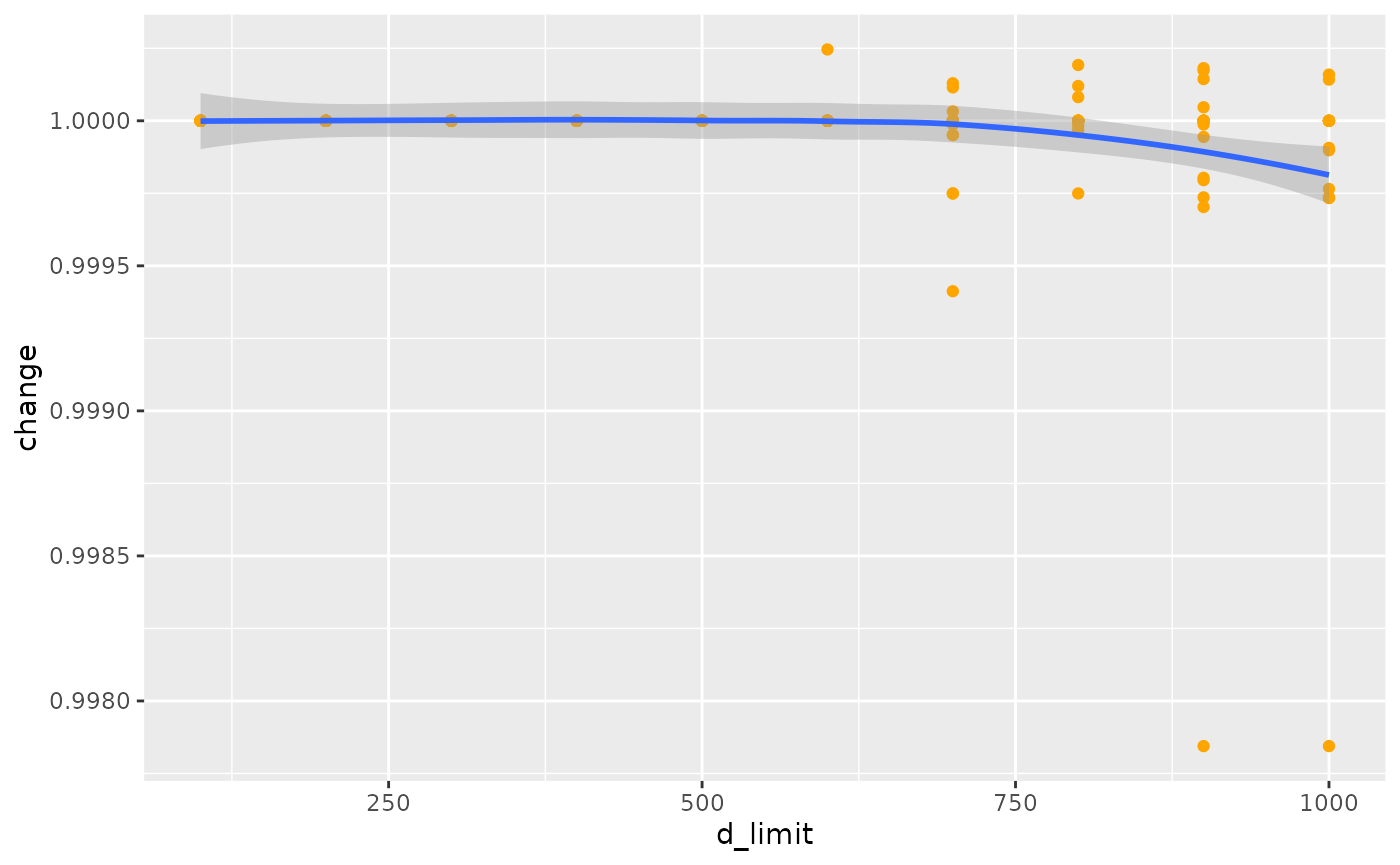
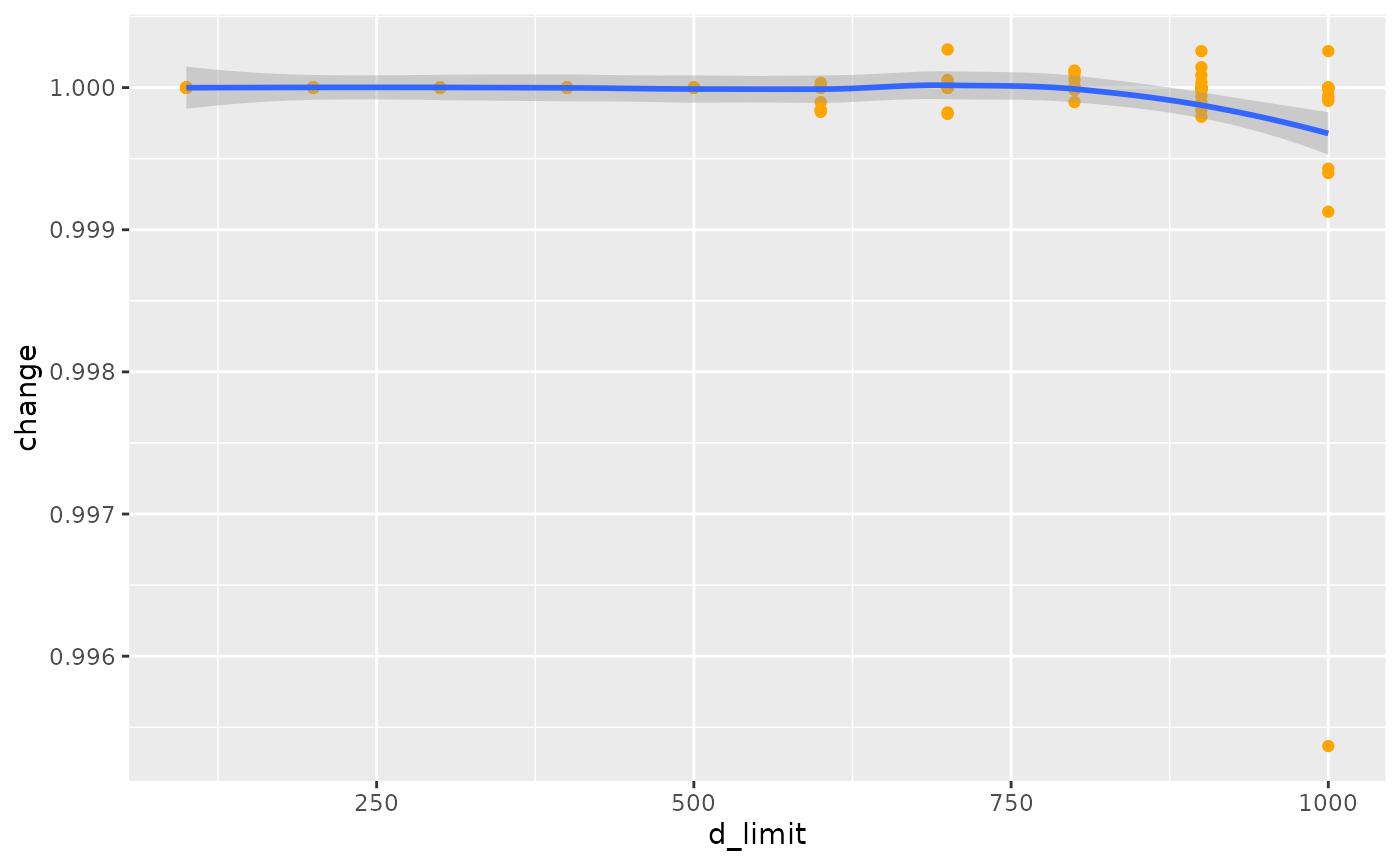
Deploying to gh-pages from @ UrbanAnalyst/gtfsrouter@3b9be44287df369f040180569be335117c8ad699 🚀

diff --git a/docs/articles/gtfsrouter.html b/docs/articles/gtfsrouter.html
@@ -33,7 +33,7 @@
       </button>
       <span class="navbar-brand">
         <a class="navbar-link" href="../index.html">gtfsrouter</a>
-        <span class="version label label-default" data-toggle="tooltip" data-placement="bottom" title="">0.0.5.161</span>
+        <span class="version label label-default" data-toggle="tooltip" data-placement="bottom" title="">0.0.5.162</span>
       </span>
     </div>
 
@@ -126,7 +126,7 @@ to a locally-stored <code>.zip</code> archive in the
 data can be exported and re-imported with:</p>
 <div class="sourceCode" id="cb1"><pre class="downlit sourceCode r">
 <code class="sourceCode R"><span><span class="fu"><a href="../reference/berlin_gtfs_to_zip.html">berlin_gtfs_to_zip</a></span><span class="op">(</span><span class="op">)</span></span></code></pre></div>
-<pre><code><span><span class="co">## [1] "/tmp/RtmphvYXK6/vbb.zip"</span></span></code></pre>
+<pre><code><span><span class="co">## [1] "/tmp/Rtmps1dFHk/vbb.zip"</span></span></code></pre>
 <div class="sourceCode" id="cb3"><pre class="downlit sourceCode r">
 <code class="sourceCode R"><span><span class="va">f</span> <span class="op">&lt;-</span> <span class="fu"><a href="https://rdrr.io/r/base/file.path.html" class="external-link">file.path</a></span> <span class="op">(</span><span class="fu"><a href="https://rdrr.io/r/base/tempfile.html" class="external-link">tempdir</a></span> <span class="op">(</span><span class="op">)</span>, <span class="st">"vbb.zip"</span><span class="op">)</span></span>
 <span><span class="fu"><a href="https://rdrr.io/r/base/files.html" class="external-link">file.exists</a></span> <span class="op">(</span><span class="va">f</span><span class="op">)</span></span></code></pre></div>
@@ -347,7 +347,7 @@ data:</p>
 <span>                day <span class="op">=</span> <span class="st">"Sunday"</span><span class="op">)</span></span>
 <span>    <span class="op">)</span></span></code></pre></div>
 <pre><code><span><span class="co">##    user  system elapsed </span></span>
-<span><span class="co">##   0.070   0.003   0.074</span></span></code></pre>
+<span><span class="co">##   0.050   0.001   0.051</span></span></code></pre>
 <div class="sourceCode" id="cb14"><pre class="downlit sourceCode r">
 <code class="sourceCode R"><span><span class="fu"><a href="https://rdrr.io/r/base/names.html" class="external-link">names</a></span> <span class="op">(</span><span class="va">gtfs</span><span class="op">)</span></span></code></pre></div>
 <pre><code><span><span class="co">## [1] "calendar"   "routes"     "trips"      "stop_times" "stops"     </span></span>
@@ -365,7 +365,7 @@ data:</p>
 <span>                         to <span class="op">=</span> <span class="va">to</span>,</span>
 <span>                         start_time <span class="op">=</span> <span class="st">"12:00:00"</span><span class="op">)</span><span class="op">)</span></span></code></pre></div>
 <pre><code><span><span class="co">##    user  system elapsed </span></span>
-<span><span class="co">##   0.062   0.000   0.062</span></span></code></pre>
+<span><span class="co">##   0.039   0.000   0.039</span></span></code></pre>
 <p>Note that the <code>day</code> parameter is used to extract the
 timetable, after which it is no longer required in the actual call to
 <code><a href="../reference/gtfs_route.html">gtfs_route()</a></code>.</p>

diff --git a/docs/index.html b/docs/index.html
@@ -35,7 +35,7 @@
       </button>
       <span class="navbar-brand">
         <a class="navbar-link" href="index.html">gtfsrouter</a>
-        <span class="version label label-default" data-toggle="tooltip" data-placement="bottom" title="">0.0.5.161</span>
+        <span class="version label label-default" data-toggle="tooltip" data-placement="bottom" title="">0.0.5.162</span>
       </span>
     </div>
 
@@ -88,7 +88,7 @@
 <span><span class="fu">remotes</span><span class="fu">::</span><span class="fu">install_git</span> <span class="op">(</span><span class="st">"https://git.sr.ht/~mpadge/gtfsrouter"</span><span class="op">)</span></span>
 <span><span class="fu">remotes</span><span class="fu">::</span><span class="fu">install_git</span> <span class="op">(</span><span class="st">"https://codeberg.org/UrbanAnalyst/gtfsrouter"</span><span class="op">)</span></span>
 <span><span class="fu">remotes</span><span class="fu">::</span><span class="fu">install_bitbucket</span> <span class="op">(</span><span class="st">"atfutures/gtfsrouter"</span><span class="op">)</span></span>
-<span><span class="fu">remotes</span><span class="fu">::</span><span class="fu">install_gitlab</span> <span class="op">(</span><span class="st">"atfutures1/gtfsrouter"</span><span class="op">)</span></span>
+<span><span class="fu">remotes</span><span class="fu">::</span><span class="fu">install_gitlab</span> <span class="op">(</span><span class="st">"UrbanAnalyst/gtfsrouter"</span><span class="op">)</span></span>
 <span><span class="fu">remotes</span><span class="fu">::</span><span class="fu">install_github</span> <span class="op">(</span><span class="st">"UrbanAnalyst/gtfsrouter"</span><span class="op">)</span></span></code></pre></div>
 <p>To load the package and check the version:</p>
 <div class="sourceCode" id="cb3"><pre class="downlit sourceCode r">
@@ -103,7 +103,7 @@
 <div class="sourceCode" id="cb5"><pre class="downlit sourceCode r">
 <code class="sourceCode R"><span><span class="va">filename</span> <span class="op">&lt;-</span> <span class="fu"><a href="reference/berlin_gtfs_to_zip.html">berlin_gtfs_to_zip</a></span> <span class="op">(</span><span class="op">)</span></span>
 <span><span class="fu"><a href="https://rdrr.io/r/base/print.html" class="external-link">print</a></span> <span class="op">(</span><span class="va">filename</span><span class="op">)</span></span></code></pre></div>
-<div class="sourceCode" id="cb6"><pre class="sourceCode R"><code class="sourceCode r"><span id="cb6-1"><a href="#cb6-1" aria-hidden="true" tabindex="-1"></a><span class="do">## [1] "/tmp/RtmpvmGw2S/vbb.zip"</span></span></code></pre></div>
+<div class="sourceCode" id="cb6"><pre class="sourceCode R"><code class="sourceCode r"><span id="cb6-1"><a href="#cb6-1" aria-hidden="true" tabindex="-1"></a><span class="do">## [1] "/tmp/RtmpRpDF3i/vbb.zip"</span></span></code></pre></div>
 <p>For normal package use, <code>filename</code> will specify the name of a local GTFS <code>.zip</code> file.</p>
 <div class="section level3">
 <h3 id="gtfs_route">gtfs_route<a class="anchor" aria-label="anchor" href="#gtfs_route"></a>

diff --git a/docs/articles/traveltimes.html b/docs/articles/traveltimes.html
@@ -33,7 +33,7 @@
       </button>
       <span class="navbar-brand">
         <a class="navbar-link" href="../index.html">gtfsrouter</a>
-        <span class="version label label-default" data-toggle="tooltip" data-placement="bottom" title="">0.0.5.161</span>
+        <span class="version label label-default" data-toggle="tooltip" data-placement="bottom" title="">0.0.5.162</span>
       </span>
     </div>
 
@@ -101,7 +101,7 @@ function</a>, is necessary prior to calculating travel times.</p>
 <div class="sourceCode" id="cb1"><pre class="downlit sourceCode r">
 <code class="sourceCode R"><span><span class="kw"><a href="https://rdrr.io/r/base/library.html" class="external-link">library</a></span> <span class="op">(</span><span class="va"><a href="https://github.com/UrbanAnalyst/gtfsrouter" class="external-link">gtfsrouter</a></span><span class="op">)</span></span>
 <span><span class="fu"><a href="../reference/berlin_gtfs_to_zip.html">berlin_gtfs_to_zip</a></span> <span class="op">(</span><span class="op">)</span></span></code></pre></div>
-<pre><code><span><span class="co">## [1] "/tmp/RtmpXkisIE/vbb.zip"</span></span></code></pre>
+<pre><code><span><span class="co">## [1] "/tmp/RtmpyHRB0K/vbb.zip"</span></span></code></pre>
 <div class="sourceCode" id="cb3"><pre class="downlit sourceCode r">
 <code class="sourceCode R"><span><span class="va">f</span> <span class="op">&lt;-</span> <span class="fu"><a href="https://rdrr.io/r/base/file.path.html" class="external-link">file.path</a></span> <span class="op">(</span><span class="fu"><a href="https://rdrr.io/r/base/tempfile.html" class="external-link">tempdir</a></span> <span class="op">(</span><span class="op">)</span>, <span class="st">"vbb.zip"</span><span class="op">)</span></span>
 <span><span class="va">gtfs</span> <span class="op">&lt;-</span> <span class="fu"><a href="../reference/extract_gtfs.html">extract_gtfs</a></span> <span class="op">(</span><span class="va">f</span>, quiet <span class="op">=</span> <span class="cn">TRUE</span><span class="op">)</span></span>

diff --git a/docs/reference/gtfs_transfer_table.html b/docs/reference/gtfs_transfer_table.html
@@ -17,7 +17,7 @@
       </button>
       <span class="navbar-brand">
         <a class="navbar-link" href="../index.html">gtfsrouter</a>
-        <span class="version label label-default" data-toggle="tooltip" data-placement="bottom" title="">0.0.5.161</span>
+        <span class="version label label-default" data-toggle="tooltip" data-placement="bottom" title="">0.0.5.162</span>
       </span>
     </div>
 
@@ -113,7 +113,7 @@ provided, this parameter is automatically set to <code>TRUE</code>.</p></dd>
     <div id="ref-examples">
     <h2>Examples</h2>
     <div class="sourceCode"><pre class="sourceCode r"><code><span class="r-in"><span><span class="fu"><a href="berlin_gtfs_to_zip.html">berlin_gtfs_to_zip</a></span> <span class="op">(</span><span class="op">)</span></span></span>
-<span class="r-out co"><span class="r-pr">#&gt;</span> [1] "/tmp/RtmpYkbVmg/vbb.zip"</span>
+<span class="r-out co"><span class="r-pr">#&gt;</span> [1] "/tmp/RtmpIDo7VW/vbb.zip"</span>
 <span class="r-in"><span><span class="va">f</span> <span class="op">&lt;-</span> <span class="fu"><a href="https://rdrr.io/r/base/file.path.html" class="external-link">file.path</a></span> <span class="op">(</span><span class="fu"><a href="https://rdrr.io/r/base/tempfile.html" class="external-link">tempdir</a></span> <span class="op">(</span><span class="op">)</span>, <span class="st">"vbb.zip"</span><span class="op">)</span></span></span>
 <span class="r-in"><span><span class="va">g</span> <span class="op">&lt;-</span> <span class="fu"><a href="extract_gtfs.html">extract_gtfs</a></span> <span class="op">(</span><span class="va">f</span>, quiet <span class="op">=</span> <span class="cn">TRUE</span><span class="op">)</span></span></span>
 <span class="r-in"><span><span class="va">g</span> <span class="op">&lt;-</span> <span class="fu">gtfs_transfer_table</span> <span class="op">(</span><span class="va">g</span>, d_limit <span class="op">=</span> <span class="fl">200</span><span class="op">)</span></span></span>

diff --git a/docs/reference/gtfs_route.html b/docs/reference/gtfs_route.html
@@ -18,7 +18,7 @@ a specified time."><!-- mathjax --><script src="https://cdnjs.cloudflare.com/aja
       </button>
       <span class="navbar-brand">
         <a class="navbar-link" href="../index.html">gtfsrouter</a>
-        <span class="version label label-default" data-toggle="tooltip" data-placement="bottom" title="">0.0.5.161</span>
+        <span class="version label label-default" data-toggle="tooltip" data-placement="bottom" title="">0.0.5.162</span>
       </span>
     </div>
 
@@ -182,7 +182,7 @@ can be calculated by setting <code>earliest_arrival = FALSE</code>.</p>
     <div id="ref-examples">
     <h2>Examples</h2>
     <div class="sourceCode"><pre class="sourceCode r"><code><span class="r-in"><span><span class="fu"><a href="berlin_gtfs_to_zip.html">berlin_gtfs_to_zip</a></span> <span class="op">(</span><span class="op">)</span> <span class="co"># Write sample feed from Berlin, Germany to tempdir</span></span></span>
-<span class="r-out co"><span class="r-pr">#&gt;</span> [1] "/tmp/RtmpYkbVmg/vbb.zip"</span>
+<span class="r-out co"><span class="r-pr">#&gt;</span> [1] "/tmp/RtmpIDo7VW/vbb.zip"</span>
 <span class="r-in"><span><span class="va">f</span> <span class="op">&lt;-</span> <span class="fu"><a href="https://rdrr.io/r/base/file.path.html" class="external-link">file.path</a></span> <span class="op">(</span><span class="fu"><a href="https://rdrr.io/r/base/tempfile.html" class="external-link">tempdir</a></span> <span class="op">(</span><span class="op">)</span>, <span class="st">"vbb.zip"</span><span class="op">)</span> <span class="co"># name of feed</span></span></span>
 <span class="r-in"><span><span class="va">gtfs</span> <span class="op">&lt;-</span> <span class="fu"><a href="extract_gtfs.html">extract_gtfs</a></span> <span class="op">(</span><span class="va">f</span><span class="op">)</span></span></span>
 <span class="r-msg co"><span class="r-pr">#&gt;</span> ▶<span style="color: #00BB00;"> Unzipping GTFS archive</span></span>

diff --git a/docs/reference/berlin_gtfs.html b/docs/reference/berlin_gtfs.html
@@ -23,7 +23,7 @@ characters.'><!-- mathjax --><script src="https://cdnjs.cloudflare.com/ajax/libs
       </button>
       <span class="navbar-brand">
         <a class="navbar-link" href="../index.html">gtfsrouter</a>
-        <span class="version label label-default" data-toggle="tooltip" data-placement="bottom" title="">0.0.5.161</span>
+        <span class="version label label-default" data-toggle="tooltip" data-placement="bottom" title="">0.0.5.162</span>
       </span>
     </div>
 
@@ -96,7 +96,7 @@ for which no route is possible return <code>NULL</code>.</p>
     <div id="ref-examples">
     <h2>Examples</h2>
     <div class="sourceCode"><pre class="sourceCode r"><code><span class="r-in"><span><span class="fu"><a href="berlin_gtfs_to_zip.html">berlin_gtfs_to_zip</a></span> <span class="op">(</span><span class="op">)</span> <span class="co"># Write sample feed from Berlin, Germany to tempdir</span></span></span>
-<span class="r-out co"><span class="r-pr">#&gt;</span> [1] "/tmp/RtmpYkbVmg/vbb.zip"</span>
+<span class="r-out co"><span class="r-pr">#&gt;</span> [1] "/tmp/RtmpIDo7VW/vbb.zip"</span>
 <span class="r-in"><span><span class="va">f</span> <span class="op">&lt;-</span> <span class="fu"><a href="https://rdrr.io/r/base/file.path.html" class="external-link">file.path</a></span> <span class="op">(</span><span class="fu"><a href="https://rdrr.io/r/base/tempfile.html" class="external-link">tempdir</a></span> <span class="op">(</span><span class="op">)</span>, <span class="st">"vbb.zip"</span><span class="op">)</span> <span class="co"># name of feed</span></span></span>
 <span class="r-in"><span><span class="va">gtfs</span> <span class="op">&lt;-</span> <span class="fu"><a href="extract_gtfs.html">extract_gtfs</a></span> <span class="op">(</span><span class="va">f</span><span class="op">)</span></span></span>
 <span class="r-msg co"><span class="r-pr">#&gt;</span> ▶<span style="color: #00BB00;"> Unzipping GTFS archive</span></span>

diff --git a/docs/reference/gtfs_timetable.html b/docs/reference/gtfs_timetable.html
@@ -17,7 +17,7 @@
       </button>
       <span class="navbar-brand">
         <a class="navbar-link" href="../index.html">gtfsrouter</a>
-        <span class="version label label-default" data-toggle="tooltip" data-placement="bottom" title="">0.0.5.161</span>
+        <span class="version label label-default" data-toggle="tooltip" data-placement="bottom" title="">0.0.5.162</span>
       </span>
     </div>
 
@@ -126,7 +126,7 @@ that case will generally take longer.</p>
     <div id="ref-examples">
     <h2>Examples</h2>
     <div class="sourceCode"><pre class="sourceCode r"><code><span class="r-in"><span><span class="fu"><a href="berlin_gtfs_to_zip.html">berlin_gtfs_to_zip</a></span> <span class="op">(</span><span class="op">)</span> <span class="co"># Write sample feed from Berlin, Germany to tempdir</span></span></span>
-<span class="r-out co"><span class="r-pr">#&gt;</span> [1] "/tmp/RtmpYkbVmg/vbb.zip"</span>
+<span class="r-out co"><span class="r-pr">#&gt;</span> [1] "/tmp/RtmpIDo7VW/vbb.zip"</span>
 <span class="r-in"><span><span class="va">f</span> <span class="op">&lt;-</span> <span class="fu"><a href="https://rdrr.io/r/base/file.path.html" class="external-link">file.path</a></span> <span class="op">(</span><span class="fu"><a href="https://rdrr.io/r/base/tempfile.html" class="external-link">tempdir</a></span> <span class="op">(</span><span class="op">)</span>, <span class="st">"vbb.zip"</span><span class="op">)</span> <span class="co"># name of feed</span></span></span>
 <span class="r-in"><span><span class="va">gtfs</span> <span class="op">&lt;-</span> <span class="fu"><a href="extract_gtfs.html">extract_gtfs</a></span> <span class="op">(</span><span class="va">f</span><span class="op">)</span></span></span>
 <span class="r-msg co"><span class="r-pr">#&gt;</span> ▶<span style="color: #00BB00;"> Unzipping GTFS archive</span></span>

diff --git a/docs/reference/gtfs_traveltimes.html b/docs/reference/gtfs_traveltimes.html
@@ -18,7 +18,7 @@ other reachable station in a system."><!-- mathjax --><script src="https://cdnjs
       </button>
       <span class="navbar-brand">
         <a class="navbar-link" href="../index.html">gtfsrouter</a>
-        <span class="version label label-default" data-toggle="tooltip" data-placement="bottom" title="">0.0.5.161</span>
+        <span class="version label label-default" data-toggle="tooltip" data-placement="bottom" title="">0.0.5.162</span>
       </span>
     </div>
 
@@ -155,7 +155,7 @@ to reach all or most stations desired for a particular query, rather than set
     <div id="ref-examples">
     <h2>Examples</h2>
     <div class="sourceCode"><pre class="sourceCode r"><code><span class="r-in"><span><span class="fu"><a href="berlin_gtfs_to_zip.html">berlin_gtfs_to_zip</a></span> <span class="op">(</span><span class="op">)</span></span></span>
-<span class="r-out co"><span class="r-pr">#&gt;</span> [1] "/tmp/RtmpYkbVmg/vbb.zip"</span>
+<span class="r-out co"><span class="r-pr">#&gt;</span> [1] "/tmp/RtmpIDo7VW/vbb.zip"</span>
 <span class="r-in"><span><span class="va">f</span> <span class="op">&lt;-</span> <span class="fu"><a href="https://rdrr.io/r/base/file.path.html" class="external-link">file.path</a></span> <span class="op">(</span><span class="fu"><a href="https://rdrr.io/r/base/tempfile.html" class="external-link">tempdir</a></span> <span class="op">(</span><span class="op">)</span>, <span class="st">"vbb.zip"</span><span class="op">)</span></span></span>
 <span class="r-in"><span><span class="va">g</span> <span class="op">&lt;-</span> <span class="fu"><a href="extract_gtfs.html">extract_gtfs</a></span> <span class="op">(</span><span class="va">f</span><span class="op">)</span></span></span>
 <span class="r-msg co"><span class="r-pr">#&gt;</span> ▶<span style="color: #00BB00;"> Unzipping GTFS archive</span></span>

diff --git a/docs/reference/extract_gtfs.html b/docs/reference/extract_gtfs.html
@@ -17,7 +17,7 @@
       </button>
       <span class="navbar-brand">
         <a class="navbar-link" href="../index.html">gtfsrouter</a>
-        <span class="version label label-default" data-toggle="tooltip" data-placement="bottom" title="">0.0.5.161</span>
+        <span class="version label label-default" data-toggle="tooltip" data-placement="bottom" title="">0.0.5.162</span>
       </span>
     </div>
 
@@ -102,7 +102,7 @@ function to the two time columns of the "stop_times" table.</p>
     <div id="ref-examples">
     <h2>Examples</h2>
     <div class="sourceCode"><pre class="sourceCode r"><code><span class="r-in"><span><span class="fu"><a href="berlin_gtfs_to_zip.html">berlin_gtfs_to_zip</a></span> <span class="op">(</span><span class="op">)</span> <span class="co"># Write sample feed from Berlin, Germany to tempdir</span></span></span>
-<span class="r-out co"><span class="r-pr">#&gt;</span> [1] "/tmp/RtmpYkbVmg/vbb.zip"</span>
+<span class="r-out co"><span class="r-pr">#&gt;</span> [1] "/tmp/RtmpIDo7VW/vbb.zip"</span>
 <span class="r-in"><span><span class="va">f</span> <span class="op">&lt;-</span> <span class="fu"><a href="https://rdrr.io/r/base/file.path.html" class="external-link">file.path</a></span> <span class="op">(</span><span class="fu"><a href="https://rdrr.io/r/base/tempfile.html" class="external-link">tempdir</a></span> <span class="op">(</span><span class="op">)</span>, <span class="st">"vbb.zip"</span><span class="op">)</span> <span class="co"># name of feed</span></span></span>
 <span class="r-in"><span><span class="va">gtfs</span> <span class="op">&lt;-</span> <span class="fu">extract_gtfs</span> <span class="op">(</span><span class="va">f</span><span class="op">)</span></span></span>
 <span class="r-msg co"><span class="r-pr">#&gt;</span> ▶<span style="color: #00BB00;"> Unzipping GTFS archive</span></span>

diff --git a/docs/articles/transfers.html b/docs/articles/transfers.html
@@ -33,7 +33,7 @@
       </button>
       <span class="navbar-brand">
         <a class="navbar-link" href="../index.html">gtfsrouter</a>
-        <span class="version label label-default" data-toggle="tooltip" data-placement="bottom" title="">0.0.5.161</span>
+        <span class="version label label-default" data-toggle="tooltip" data-placement="bottom" title="">0.0.5.162</span>
       </span>
     </div>
 
@@ -594,9 +594,9 @@ range of distance limits.</p>
 <p><img src="transfers_files/figure-html/plot1-1.png" width="700"></p>
 <p>And these additional transfer possibilities can make a significant
 difference to estimated travel times. Note, however, that the travel
-times only changed for 621 stations, while the value of
+times only changed for 762 stations, while the value of
 <code>nsame</code> value recording numbers of stations for which travel
-times did not change was 5,055. Travel times may also increase as
+times did not change was 5,366. Travel times may also increase as
 additional transfers may be used to reduce numbers of connecting
 services required for a particular trip, and the algorithm generally
 searches for connections with minimal numbers of transfers.</p>
@@ -678,7 +678,7 @@ limits of maximal transfer distance, although the overall effect is very
 minimal. The object <code>d</code> also records the proportion of
 station pairs for which modifications to the transfers table actually
 changed travel times, which in this case amounts to a mean value of
-7^{-4}, clearly revealing that very few trips actually change.</p>
+8^{-4}, clearly revealing that very few trips actually change.</p>
 <div class="section level3">
 <h3 id="a-more-realistic-example">A more realistic example<a class="anchor" aria-label="anchor" href="#a-more-realistic-example"></a>
 </h3>

diff --git a/docs/reference/summary.gtfs.html b/docs/reference/summary.gtfs.html
@@ -17,7 +17,7 @@
       </button>
       <span class="navbar-brand">
         <a class="navbar-link" href="../index.html">gtfsrouter</a>
-        <span class="version label label-default" data-toggle="tooltip" data-placement="bottom" title="">0.0.5.161</span>
+        <span class="version label label-default" data-toggle="tooltip" data-placement="bottom" title="">0.0.5.162</span>
       </span>
     </div>
 
@@ -81,7 +81,7 @@
     <div id="ref-examples">
     <h2>Examples</h2>
     <div class="sourceCode"><pre class="sourceCode r"><code><span class="r-in"><span><span class="fu"><a href="berlin_gtfs_to_zip.html">berlin_gtfs_to_zip</a></span> <span class="op">(</span><span class="op">)</span></span></span>
-<span class="r-out co"><span class="r-pr">#&gt;</span> [1] "/tmp/RtmpYkbVmg/vbb.zip"</span>
+<span class="r-out co"><span class="r-pr">#&gt;</span> [1] "/tmp/RtmpIDo7VW/vbb.zip"</span>
 <span class="r-in"><span><span class="va">f</span> <span class="op">&lt;-</span> <span class="fu"><a href="https://rdrr.io/r/base/file.path.html" class="external-link">file.path</a></span> <span class="op">(</span><span class="fu"><a href="https://rdrr.io/r/base/tempfile.html" class="external-link">tempdir</a></span> <span class="op">(</span><span class="op">)</span>, <span class="st">"vbb.zip"</span><span class="op">)</span></span></span>
 <span class="r-in"><span><span class="va">g</span> <span class="op">&lt;-</span> <span class="fu"><a href="extract_gtfs.html">extract_gtfs</a></span> <span class="op">(</span><span class="va">f</span><span class="op">)</span></span></span>
 <span class="r-msg co"><span class="r-pr">#&gt;</span> ▶<span style="color: #00BB00;"> Unzipping GTFS archive</span></span>

diff --git a/docs/authors.html b/docs/authors.html
@@ -17,7 +17,7 @@
       </button>
       <span class="navbar-brand">
         <a class="navbar-link" href="index.html">gtfsrouter</a>
-        <span class="version label label-default" data-toggle="tooltip" data-placement="bottom" title="">0.0.5.161</span>
+        <span class="version label label-default" data-toggle="tooltip" data-placement="bottom" title="">0.0.5.162</span>
       </span>
     </div>
 
@@ -74,13 +74,13 @@
 
     <p>Padgham M, Stepniak M (2023).
 <em>gtfsrouter: Routing with GTFS (General Transit Feed Specification) Data</em>.
-R package version 0.0.5.161, <a href="https://github.com/UrbanAnalyst/gtfsrouter" class="external-link">https://github.com/UrbanAnalyst/gtfsrouter</a>. 
+R package version 0.0.5.162, <a href="https://github.com/UrbanAnalyst/gtfsrouter" class="external-link">https://github.com/UrbanAnalyst/gtfsrouter</a>. 
 </p>
     <pre>@Manual{,
   title = {gtfsrouter: Routing with GTFS (General Transit Feed Specification) Data},
   author = {Mark Padgham and Marcin Stepniak},
   year = {2023},
-  note = {R package version 0.0.5.161},
+  note = {R package version 0.0.5.162},
   url = {https://github.com/UrbanAnalyst/gtfsrouter},
 }</pre>
 
